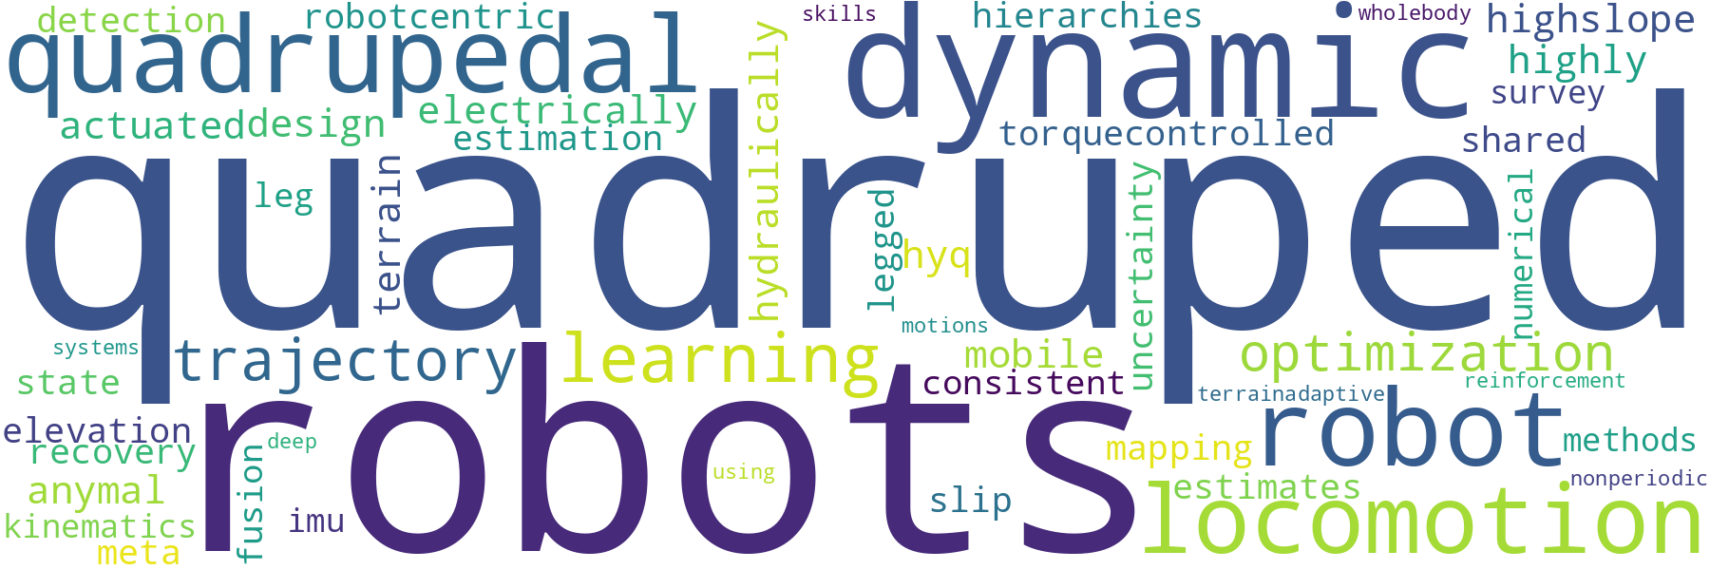
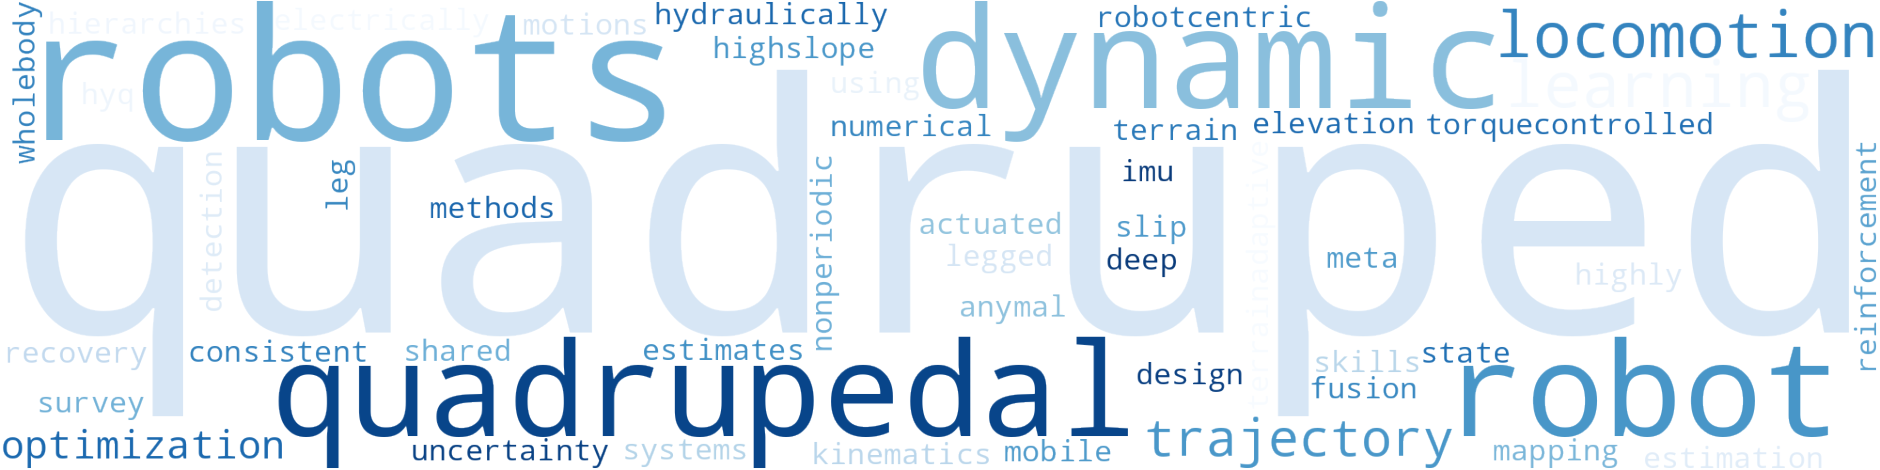
update

diff --git a/assets/word_cloud.py b/assets/word_cloud.py
@@ -12,7 +12,7 @@ stopwords = set([
     "it's", "its", "itself", "let's", "me", "more", "most", "my", "myself", "nor", "of", "on", "once", "only", "or", "other", "ought",
     "our", "ours", "ourselves", "out", "over", "own", "same", "she", "she'd", "she'll", "she's", "should", "so", "some", "such", "than",
     "that", "that's", "the", "their", "theirs", "them", "themselves", "then", "there", "there's", "these", "they", "they'd", "they'll",
-    "they're", "they've", "this", "those", "through", "to", "too", "under", "until", "up", "very", "was", "we", "we'd", "we'll", "we're",
+    "they're", "they've", "this", "those", "through", "to", "too", "under", "until", "up", "very", "via", "was", "we", "we'd", "we'll", "we're",
     "we've", "were", "what", "what's", "when", "when's", "where", "where's", "which", "while", "who", "who's", "whom", "why", "why's",
     "with", "would", "you", "you'd", "you'll", "you're", "you've", "your", "yours", "yourself", "yourselves"
 ])
@@ -20,55 +20,21 @@ stopwords = set([
 # 1. Get the paper list from the user
 # papers_input = input("Please provide the list of papers:\n")
 papers_input = """
-- [AMP in the wild: Learning robust, agile, natural legged locomotion skills](https://arxiv.org/abs/2304.10888)
-- [ARMP: Autoregressive Motion Planning for Quadruped Locomotion and Navigation in Complex Indoor Environments](https://arxiv.org/abs/2303.15900)
-- [ArtPlanner: Robust Legged Robot Navigation in the Field](https://arxiv.org/abs/2303.01420)
-- [ASC: Adaptive Skill Coordination for Robotic Mobile Manipulation](https://arxiv.org/abs/2304.00410)
-- [Autonomous Stair Ascending and Descending by Quadruped Wheelchairs](https://ieeexplore.ieee.org/abstract/document/10202377)
-- [Barkour: Benchmarking Animal-level Agility with Quadruped Robots](https://arxiv.org/abs/2305.14654)
-- [DOC: Differentiable Optimal Control for Retargeting Motions onto Legged Robots](https://la.disneyresearch.com/wp-content/uploads/DOC_paper.pdf)
-- [Dojo: A Differentiable Physics Engine for Robotics](https://arxiv.org/abs/2203.00806)
-- [DreamWaQ: Learning Robust Quadrupedal Locomotion With Implicit Terrain Imagination via Deep Reinforcement Learning](https://arxiv.org/abs/2301.10602)
-- [DribbleBot: Dynamic Legged Manipulation in the Wild](https://gmargo11.github.io/dribblebot/rsc/dribblebot_paper.pdf)
-- [Drilling Task with a Quadruped Robot for Silage Face Measurements](https://www.researchgate.net/publication/370765569_Drilling_Task_with_a_Quadruped_Robot_for_Silage_Face_Measurements)
-- [Event Camera-based Visual Odometry for Dynamic Motion Tracking of a Legged Robot Using Adaptive Time Surface](https://arxiv.org/abs/2305.08962)
-- [Event-based Agile Object Catching with a Quadrupedal Robot](https://arxiv.org/abs/2303.17479)
-- [Fast Traversability Estimation for Wild Visual Navigation](https://arxiv.org/abs/2305.08510)
-- [Fast Traversability Estimation for Wild Visual Navigation](https://arxiv.org/abs/2305.08510)
-- [From Data-Fitting to Discovery: Interpreting the Neural Dynamics of Motor Control through Reinforcement Learning](https://arxiv.org/abs/2305.11107)
-- [iPlanner: Imperative Path Planning](https://arxiv.org/abs/2302.11434)
-- [Language to Rewards for Robotic Skill Synthesis](https://arxiv.org/abs/2306.08647)
-- [Learning a Single Policy for Diverse Behaviors on a Quadrupedal Robot using Scalable Motion Imitation](https://arxiv.org/abs/2303.15331)
-- [Learning and Adapting Agile Locomotion Skills by Transferring Experience](https://arxiv.org/abs/2304.09834)
-- [Learning Arm-Assisted Fall Damage Reduction and Recovery for Legged Mobile Manipulators](https://www.research-collection.ethz.ch/handle/20.500.11850/595246)
-- [Learning Complex Motor Skills for Legged Robot Fall Recovery](https://ieeexplore.ieee.org/document/10138662/)
-- [Learning Impulse-Reduced Gait for Quadruped Robot using CMA-ES](https://ieeexplore.ieee.org/abstract/document/10202519)
-- [Learning quadrupedal locomotion on deformable terrain](https://www.science.org/doi/full/10.1126/scirobotics.ade2256)
-- [Learning to Walk by Steering: Perceptive Quadrupedal Locomotion in Dynamic Environments](https://arxiv.org/abs/2209.09233)
-- [Legs as Manipulator: Pushing Quadrupedal Agility Beyond Locomotion](https://arxiv.org/abs/2303.11330)
-- [LSC: Language-guided Skill Coordination](https://languageguidedskillcoordination.github.io/)
-- [LSTP: Long Short-Term Motion Planning for Legged and Legged-Wheeled Systems](https://www.research-collection.ethz.ch/handle/20.500.11850/625515)
-- [Mastering Diverse Domains through World Models](https://arxiv.org/abs/2301.04104)
-- [Not Only Rewards But Also Constraints: Applications on Legged Robot Locomotion](https://arxiv.org/abs/2308.12517)
-- [OPT-Mimic: Imitation of Optimized Trajectories for Dynamic Quadruped Behaviors](https://arxiv.org/abs/2210.01247)
-- [ORBIT: A Unified Simulation Framework for Interactive Robot Learning Environments](https://ieeexplore.ieee.org/abstract/document/10107764)
-- [Reinforcement Learning for Legged Robots: Motion Imitation from Model-Based Optimal Control](https://arxiv.org/abs/2305.10989)
-- [Reinforcement Learning from Multiple Sensors via Joint Representations](https://arxiv.org/abs/2302.05342)
-- [RL + Model-based Control: Using On-demand Optimal Control to Learn Versatile Legged Locomotion](https://arxiv.org/abs/2305.17842)
-- [Robust Quadrupedal Locomotion via Risk-Averse Policy Learning](https://arxiv.org/abs/2308.09405)
-- [Robust Recovery Motion Control for Quadrupedal Robots via Learned Terrain Imagination](https://arxiv.org/abs/2306.12712)
-- [Roll-Drop: accounting for observation noise with a single parameter](https://arxiv.org/abs/2304.13150)
-- [SafeSteps: Learning Safer Footstep Planning Policies for Legged Robots via Model-Based Priors](https://arxiv.org/abs/2307.12664.pdf)
-- [SayTap: Language to Quadrupedal Locomotion](https://arxiv.org/abs/2306.07580)
-- [Scientific Exploration of Challenging Planetary Analog Environments with a Team of Legged Robots](https://arxiv.org/abs/2307.10079)
-- [Solving Challenging Control Problems via Learning-based Motion Planning and Imitation](https://ieeexplore.ieee.org/abstract/document/10202250)
-- [Towards Legged Locomotion on Steep Planetary Terrain](https://www.research-collection.ethz.ch/handle/20.500.11850/625001)
-- [Versatile Multi-Contact Planning and Control for Legged Loco-Manipulation](https://www.science.org/doi/10.1126/scirobotics.adg5014)
+- [ANYmal - a highly mobile and dynamic quadrupedal robot](https://doi.org/10.1109/IROS.2016.7758092)
+- [Design of HyQ – a hydraulically and electrically actuated quadruped robot](https://doi.org/10.1177/0959651811402275)
+- [High-slope terrain locomotion for torque-controlled quadruped robots](https://link.springer.com/article/10.1007/s10514-016-9573-1)
+- [Meta Learning Shared Hierarchies](https://doi.org/10.48550/arXiv.1710.09767)
+- [Robot-Centric Elevation Mapping with Uncertainty Estimates](https://doi.org/10.1142/9789814623353_0051)
+- [Slip Detection and Recovery for Quadruped Robots](https://doi.org/10.1016/j.robot.2005.07.002)
+- [State Estimation for Legged Robots - Consistent Fusion of Leg Kinematics and IMU](https://doi.org/10.7551/mitpress/9816.001.0001)
+- [Survey of Numerical Methods for Trajectory Optimization](https://arc.aiaa.org/doi/10.2514/2.4231)
+- [Terrain-adaptive locomotion skills using deep reinforcement learning](https://dl.acm.org/doi/10.1145/2897824.2925881)
+- [Wholebody trajectory optimization for non-periodic dynamic motions on quadrupedal systems](https://ieeexplore.ieee.org/document/7989623)
 """
 
 # 2. Ask the user for the title of the picture
 # picture_title = input("Please provide the title for the picture (without the .png extension): ")
-picture_title = "2023"
+picture_title = "2017"
 
 # 3. Extract the words from the titles (excluding the links)
 titles = re.findall(r"\[(.*?)\]\(.*?\)", papers_input)
@@ -84,13 +50,17 @@ for title in titles:
 keyword_freq = Counter(keywords)
 
 # 4. Create the word cloud with landscape ratio and save it
-wordcloud = WordCloud(width=1800, height=600, background_color="white").generate_from_frequencies(keyword_freq)
-plt.figure(figsize=(18,6))
+wordcloud = WordCloud(width=2000,
+                      height=500,
+                      colormap="Blues",
+                      background_color="rgba(255, 255, 255, 0)",
+                      mode="RGBA").generate_from_frequencies(keyword_freq)
+plt.figure(figsize=(20,5))
 plt.imshow(wordcloud, interpolation="bilinear")
 plt.axis("off")
 plt.tight_layout()
 
 # Save the image in the same location as the code
 file_name = f"{picture_title}.png"
-plt.savefig(file_name, bbox_inches="tight", pad_inches=0)
+plt.savefig(file_name, bbox_inches="tight", pad_inches=0, transparent=True)
 print(f"Word cloud saved as {file_name}")

diff --git a/README.md b/README.md
@@ -2,7 +2,7 @@
 
 > Don't hesitate to leave [issues](https://github.com/curieuxjy/Awesome_Quadrupedal_Robots/issues) or [discussions](https://github.com/curieuxjy/Awesome_Quadrupedal_Robots/discussions) to me if there are any corrections or errors.
 
-![](./assets/cover.png)
+![](./assets/cover_v2.png)
 
 > 🔤 The items below are in alphabetical order.
 
@@ -22,6 +22,7 @@
 - [AiDIN](https://www.aidinrobotics.co.kr/leggedrobot-aidin)
 - [ANYmal](https://rsl.ethz.ch/robots-media/anymal.html)
 - [Barkour](https://ai.googleblog.com/2023/05/barkour-benchmarking-animal-level.html)
+- [CyberDog 2](https://www.mi.com/cyberdog2)
 - [Cheetah](https://biomimetics.mit.edu/)
 - [HyQ](https://robots.ieee.org/robots/hyq/)
 - [Jueying](https://www.deeprobotics.cn/en/index/product.html)
@@ -44,7 +45,7 @@
 <details>
 <summary><b>2023</b></summary>
 
-<img src="./assets/2023.png" width="70%" class="center"/>
+<img src="./assets/2023.png" width="100%" class="center"/>
 
 - [AMP in the wild: Learning robust, agile, natural legged locomotion skills](https://arxiv.org/abs/2304.10888)
 - [ARMP: Autoregressive Motion Planning for Quadruped Locomotion and Navigation in Complex Indoor Environments](https://arxiv.org/abs/2303.15900)
@@ -96,7 +97,7 @@
 <details>
 <summary><b>2022</b></summary>
 
-<img src="./assets/2022.png" width="70%" class="center"/>
+<img src="./assets/2022.png" width="100%" class="center"/>
 
 - [A Collision-Free MPC for Whole-Body Dynamic Locomotion and Manipulation](https://arxiv.org/abs/2202.12385v1)
 - [A Linearization of Centroidal Dynamics for the Model-Predictive Control of Quadruped Robots](https://ieeexplore.ieee.org/document/9812433)
@@ -187,7 +188,7 @@
 <details>
 <summary><b>2021</b></summary>
 
-<img src="./assets/2021.png" width="70%" class="center"/>
+<img src="./assets/2021.png" width="100%" class="center"/>
 
 - [A Review of Physics Simulators for Robotic Applications](https://ieeexplore.ieee.org/document/9386154/)
 - [A Unified MPC Framework for Whole-Body Dynamic Locomotion and Manipulation](https://arxiv.org/abs/2103.00946)
@@ -234,7 +235,7 @@
 <details>
 <summary><b>2020</b></summary>
 
-<img src="./assets/2020.png" width="70%" class="center"/>
+<img src="./assets/2020.png" width="100%" class="center"/>
 
 - [An Open Torque-Controlled Modular Robot Architecture for Legged Locomotion Research](https://ieeexplore.ieee.org/document/9015985)
 - [Dream to Control: Learning Behaviors by Latent Imagination](https://arxiv.org/abs/1912.01603)
@@ -262,7 +263,7 @@
 <details>
 <summary><b>2019</b></summary>
 
-<img src="./assets/2019.png" width="70%" class="center"/>
+<img src="./assets/2019.png" width="100%" class="center"/>
 
 - [DeepGait: Planning and Control of Quadrupedal Gaits using Deep Reinforcement Learning](https://doi.org/10.48550/arXiv.1909.08399)
 - [Design a Fall Recovery Strategy for a Wheel-Legged Quadruped Robot Using Stability Feature Space](https://doi.org/10.1109/ROBIO49542.2019.8961722)
@@ -284,7 +285,7 @@
 <details>
 <summary><b>2018</b></summary>
 
-<img src="./assets/2018.png" width="70%" class="center"/>
+<img src="./assets/2018.png" width="100%" class="center"/>
 
 - [Contact Model Fusion for Event-Based Locomotion in Unstructured Terrains](https://ieeexplore.ieee.org/document/8460904)
 - [Dynamic locomotion in the MIT Cheetah 3 through convex model-predictive control](https://ieeexplore.ieee.org/document/8594448)
@@ -304,7 +305,7 @@
 <details>
 <summary><b>~ 2017</b></summary>
 
-<img src="./assets/2017.png" width="70%" class="center"/>
+<img src="./assets/2017.png" width="100%" class="center"/>
 
 - [ANYmal - a highly mobile and dynamic quadrupedal robot](https://doi.org/10.1109/IROS.2016.7758092)
 - [Design of HyQ – a hydraulically and electrically actuated quadruped robot](https://doi.org/10.1177/0959651811402275)
